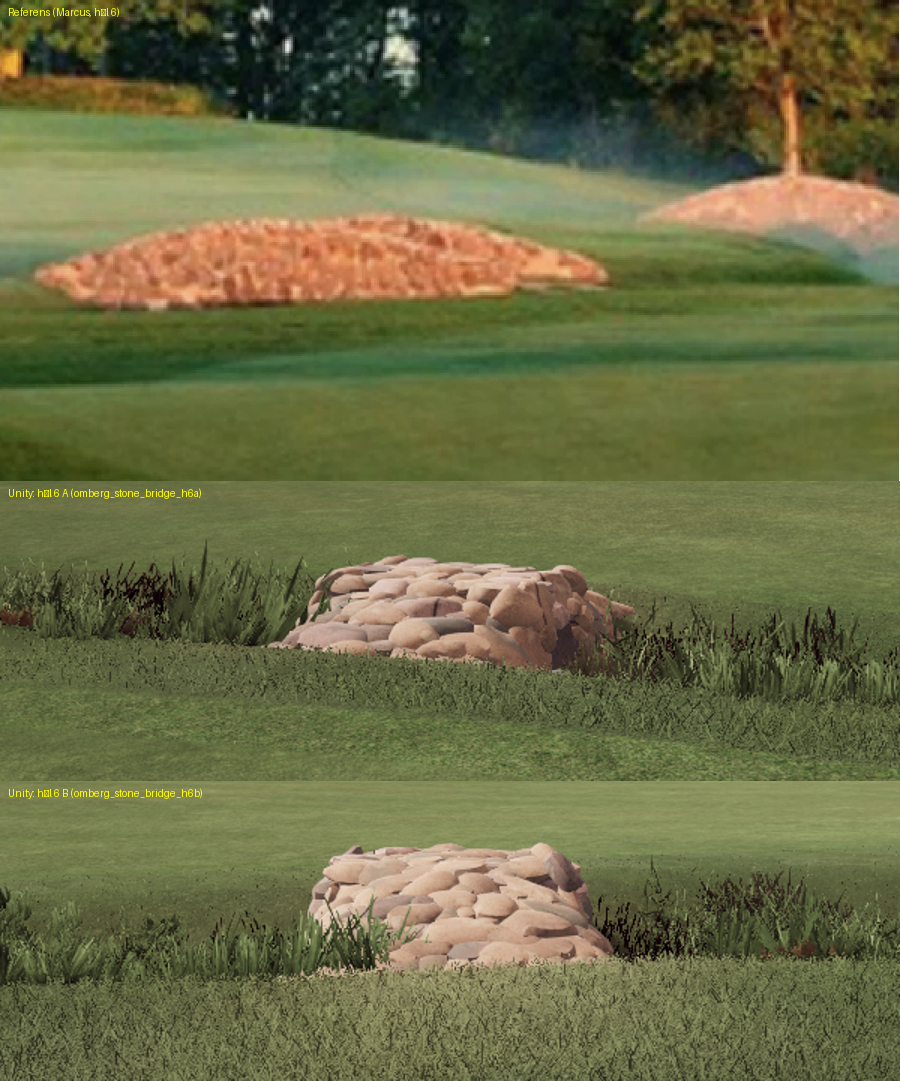
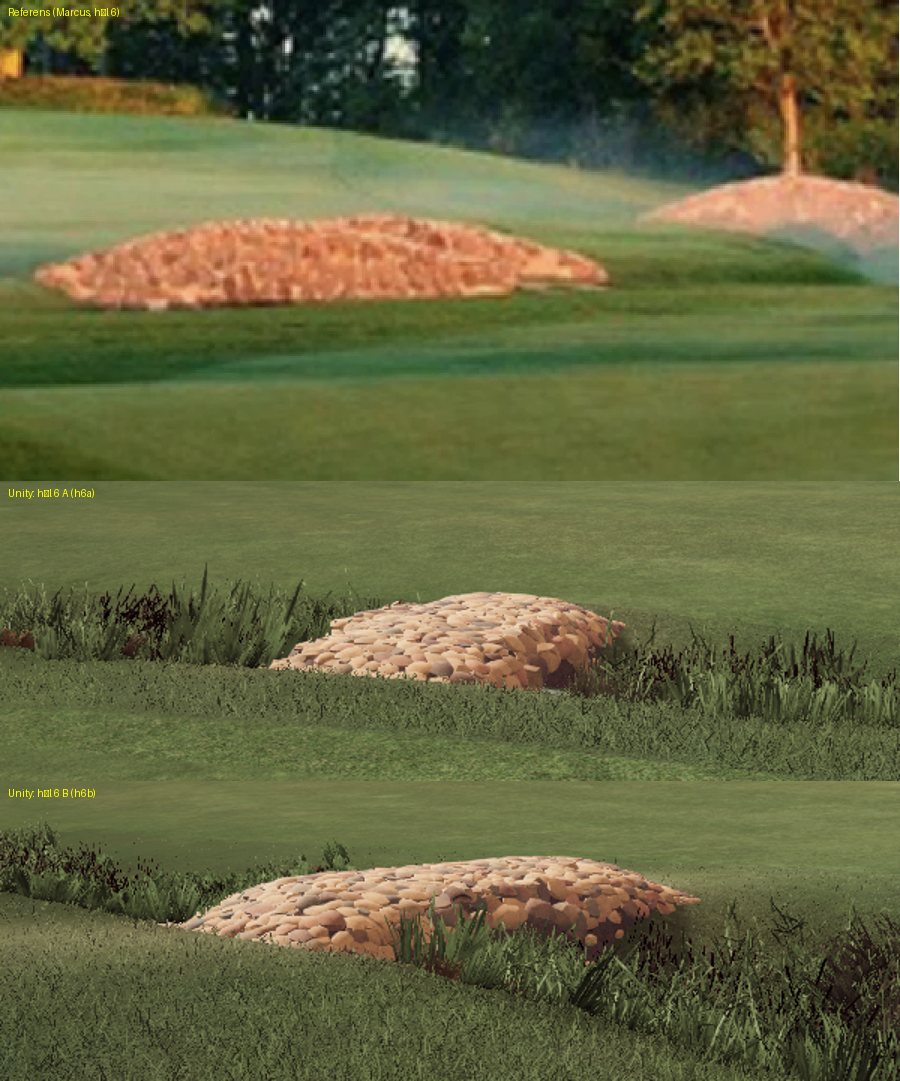
feat(omberg): stone mound bridge retuned to the reference - long and low (7.5-8 x 2.8 x 0.6 m), many small angular cobbles, orange-ochre

Changed region(s): [[0.0, 0.4884, 1.0, 1.0]]

diff --git a/blender/tools/props_kit.py b/blender/tools/props_kit.py
@@ -566,10 +566,10 @@ MATERIALS = {
     "granite_beige": ("granite:134,128,116:0.45:0.25:0.15", (4.0, 4.0), None, 0.15, 0.0),
     # Omberg's stone crossings: the warm heaps on hole 6 (photo: sandstone-pink to ochre in low sun) and the old arch
     # bridges on holes 7 and 9 (mid-grey field stone, photos 2026-10-19)
-    "sandstone_core": ("granite:78,62,54:0.1:0:0", (4.0, 4.0), None, 0.1, 0.0),
-    "sandstone_ochre": ("granite:142,104,78:0.2:0:0", (4.0, 4.0), None, 0.12, 0.0),
-    "sandstone_pink": ("granite:148,110,98:0.2:0:0", (4.0, 4.0), None, 0.12, 0.0),
-    "sandstone_dark": ("granite:106,84,72:0.25:0:0", (4.0, 4.0), None, 0.12, 0.0),
+    "sandstone_core": ("granite:84,58,40:0.05:0:0", (4.0, 4.0), None, 0.1, 0.0),
+    "sandstone_ochre": ("granite:176,120,66:0.05:0:0", (4.0, 4.0), None, 0.12, 0.0),
+    "sandstone_rust": ("granite:164,102,62:0.05:0:0", (4.0, 4.0), None, 0.12, 0.0),
+    "sandstone_dark": ("granite:124,86,58:0.1:0:0", (4.0, 4.0), None, 0.12, 0.0),
     "fieldstone_grey": ("granite:128,124,118:0.3:0.1:0", (4.0, 4.0), None, 0.15, 0.0),
     "fieldstone_dark": ("granite:100,96,92:0.25:0.05:0", (4.0, 4.0), None, 0.15, 0.0),
     "fieldstone_brown": ("granite:130,118,108:0.3:0.1:0", (4.0, 4.0), None, 0.15, 0.0),
@@ -1826,7 +1826,7 @@ def stone_bridge(g, s):
     L, W, H = s["length"], s.get("width", 2.4 if arch else 2.6), s.get("height", 1.1 if arch else 0.85)
     ow, oh = s.get("opening", 2.4 if arch else 1.5), s.get("openingHeight", 0.95 if arch else 0.4)
     depth, stone, side = s.get("depth", 0.9), s.get("stone", 0.42), math.radians(s.get("sideDeg", 52))
-    mats = s.get("mats", ["fieldstone_grey", "fieldstone_dark", "fieldstone_brown"] if arch else ["sandstone_ochre", "sandstone_pink", "sandstone_dark"])
+    mats = s.get("mats", ["fieldstone_grey", "fieldstone_dark", "fieldstone_brown"] if arch else ["sandstone_ochre", "sandstone_rust", "sandstone_dark"])
     core = s.get("core", "fieldstone_dark" if arch else "sandstone_core")
     deck = s.get("deck", "turf_mat")
     rnd = random.Random(s.get("seed", 1))
@@ -1843,8 +1843,8 @@ def stone_bridge(g, s):
         u = min(1.0, abs(2 * x / L))
         if arch:  # a hump bridge: the deck line, level across, vertical flanks
             return H * (1 - u ** 2.6)
-        hx = (1 - u ** 2.0) ** 0.85
-        cy = (1 - min(1.0, abs(2 * y / W)) ** 2.2) ** 0.55
+        hx = smooth((1 - u) / 0.5) ** 0.9 * (1 - 0.12 * u * u)  # flat, gently domed, the ends feathering out
+        cy = (1 - min(1.0, abs(2 * y / W)) ** 2.4) ** 0.5
         z = H * hx * cy
         if ow > 0:  # the headwall over the culvert: a lip that stands to the mouth, then falls steeply
             hw = (oh + 0.42) * (1 - smooth((abs(x) - ow / 2 - 0.15) / 0.55))
@@ -1902,18 +1902,24 @@ def stone_bridge(g, s):
             g.poly(q[::-1] if sgn > 0 else q, core)
 
     # --- the stones
-    placed = []  # (x, y, z, r)
+    placed = {}  # cell -> [(x, y, z, r)]
 
     def free(x, y, z, r, k):
-        return all((x - a) ** 2 + (y - b) ** 2 + (z - c) ** 2 >= (k * (r + d)) ** 2 for a, b, c, d in placed)
+        cx, cy = int(x // 0.5), int(y // 0.5)
+        for i in (cx - 1, cx, cx + 1):
+            for j in (cy - 1, cy, cy + 1):
+                for a, b, c, d in placed.get((i, j), ()):
+                    if (x - a) ** 2 + (y - b) ** 2 + (z - c) ** 2 < (k * (r + d)) ** 2:
+                        return False
+        return True
 
     def lay(x, y, z, r, nrm, big):
-        sx, sy, sz = r * rnd.uniform(1.8, 2.8), r * rnd.uniform(1.4, 2.0), r * rnd.uniform(0.7, 1.05)
-        if rnd.random() < 0.75:  # blocky, laid flat: a slab with rounded edges
-            spec = {"exponent": rnd.uniform(2.4, 3.3), "lumps": 0.45, "flats": [{"dir": (0, 0, 1), "at": 0.78, "keep": 0.15}, {"dir": (0, 0, -1), "at": 0.78, "keep": 0.15}]}
+        sx, sy, sz = r * rnd.uniform(1.6, 2.6), r * rnd.uniform(1.3, 2.0), r * rnd.uniform(0.6, 0.95)
+        if rnd.random() < 0.85:  # angular, laid flat: a slab with worn edges
+            spec = {"exponent": rnd.uniform(2.8, 3.8), "lumps": 0.3, "flats": [{"dir": (0, 0, 1), "at": 0.74, "keep": 0.1}, {"dir": (0, 0, -1), "at": 0.74, "keep": 0.1}]}
         else:
-            spec = {"lumps": 0.8}
-        spec.update(sx=sx, sy=sy, sz=sz, seed=rnd.randint(1, 10 ** 6), seg=14 if big else 10, rings=8 if big else 6,
+            spec = {"lumps": 0.6}
+        spec.update(sx=sx, sy=sy, sz=sz, seed=rnd.randint(1, 10 ** 6), seg=8 if big else 6, rings=5 if big else 4,
                     mat=mats[0] if rnd.random() < 0.55 else rnd.choice(mats))
         # tilt the stone's up towards the surface normal, a little less than fully; spin about it
         nz = Vector(nrm)
@@ -1934,7 +1940,7 @@ def stone_bridge(g, s):
     def in_mouth(x, y, r):  # keep stones out of the culvert (the mouth's own stones go in below)
         return ow > 0 and abs(x) < ow / 2 + r * 0.3 and abs(y) > W / 2 - 0.3 and surf(x, y) < oh + 0.2
 
-    passes = () if arch else ((stone * 1.0, 0.95, 2600, True), (stone * 0.6, 0.85, 3200, False))
+    passes = () if arch else ((stone * 1.0, 0.9, 7000, True), (stone * 0.7, 0.85, 6000, False))
     for rad, k, tries, big in passes:
         for _ in range(tries):
             x, y = rnd.uniform(-L / 2, L / 2), rnd.uniform(-W / 2, W / 2)
@@ -1944,13 +1950,14 @@ def stone_bridge(g, s):
             gr = grad(x, y)
             if rnd.random() > min(1.0, math.sqrt(1 + gr * gr) / 1.6) * 0.5 + 0.25 and not big:
                 pass
-            r = rad * rnd.uniform(0.8, 1.15) * (0.55 + 0.45 * min(1.0, (z + 0.15) / 0.45) if z < 0.45 else 1.0)
+            r = rad * rnd.uniform(0.8, 1.2) * (0.6 + 0.4 * min(1.0, (z + 0.1) / 0.25) if z < 0.25 else 1.0)
             if in_mouth(x, y, r) or not free(x, y, z, r * 0.6, k):
                 continue
             n = normal(x, y)
-            placed.append((x, y, z, r * 0.6))
+            placed.setdefault((int(x // 0.5), int(y // 0.5)), []).append((x, y, z, r * 0.6))
             lay(x, y, z - r * 0.12, r, n, big)
 
+    nk, nw = max(8, int(L / 0.3)), max(4, int(W / 0.3))
     if not arch:  # a skirt: two rows round the foot, down the slope, so a heap on a hillside has no gap under it
         per = [(x, -W / 2) for x in [-L / 2 + L * i / 14 for i in range(15)]] + [(L / 2, y) for y in [-W / 2 + W * j / 6 for j in range(1, 7)]]             + [(x, W / 2) for x in [L / 2 - L * i / 14 for i in range(1, 15)]] + [(-L / 2, y) for y in [W / 2 - W * j / 6 for j in range(1, 6)]]
         for x, y in per:

diff --git a/docs/gspro/ombergs-golfklubb/bridges/stone-bridges.gen.py b/docs/gspro/ombergs-golfklubb/bridges/stone-bridges.gen.py
@@ -22,9 +22,9 @@ HERE = os.path.dirname(os.path.abspath(__file__))
 
 SITES = {
     # hole 6's creek (feature 575), the two old bridges on the way to the single-bunker green; the first one of the reference photo
-    "omberg_stone_bridge_h6a": dict(hole=6, e=477447.4, n=6457784.8, yawDeg=154.0, style="mound", length=6.4, width=3.0, height=0.85, seed=11, active=True,
+    "omberg_stone_bridge_h6a": dict(hole=6, e=477447.4, n=6457784.8, yawDeg=154.0, style="mound", length=7.5, width=2.8, height=0.6, seed=11, active=True,
                                     note="creek 575, deck 6.5 x 3.5 m in the ortho, creek WSW-ENE"),
-    "omberg_stone_bridge_h6b": dict(hole=6, e=477521.1, n=6457810.1, yawDeg=180.0, style="mound", length=6.8, width=3.0, height=0.9, seed=23, active=True,
+    "omberg_stone_bridge_h6b": dict(hole=6, e=477521.1, n=6457810.1, yawDeg=180.0, style="mound", length=8.0, width=2.8, height=0.65, seed=23, active=True,
                                     note="creek 575, deck 6.7 x 3.3 m, creek W-E, a parapet strip on the east side"),
     # candidates: ask Marcus first
     "omberg_stone_bridge_h9c": dict(hole=9, e=477635.0, n=6457827.0, yawDeg=130.0, style="arch", length=5.5, width=2.4, height=1.1, seed=31, active=False,
@@ -41,7 +41,8 @@ def spec(all_sites=False):
             continue
         part = {"kind": "stone_bridge", "style": s["style"], "length": s["length"], "width": s["width"], "height": s["height"], "seed": s["seed"]}
         if s["style"] == "mound":
-            part["stone"] = s.get("stone", 0.34)
+            part["stone"] = s.get("stone", 0.17)
+            part["openingHeight"] = s.get("openingHeight", 0.1)
         if "opening" in s:
             part["opening"] = s["opening"]
         assets[name] = {"category": "structure", "collider": "mesh", "parts": [part]}
